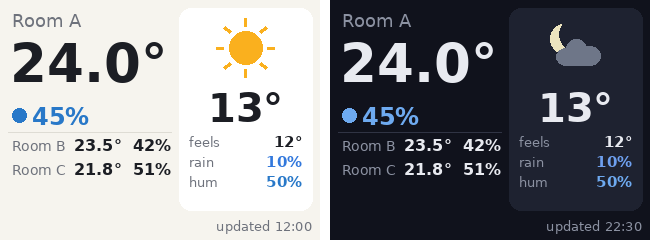
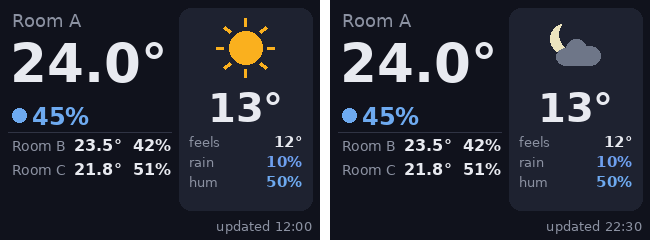
Dashboard: dark palette day and night
On the real CoreS3 the light daytime palette glared. The firmware tile now
always uses the dark palette, with is_day only choosing the sun or the
moon. The Phase 0 renderer matches by default (--light keeps the old
daytime look), and the docs and command description say so.

Refs #6

Claude-Session: https://claude.ai/code/session_013oQM9HPkBhiKc64RtBTpee

diff --git a/esp32/tools/dashboard_image.py b/esp32/tools/dashboard_image.py
@@ -37,7 +37,8 @@ Payload (every field optional except what you want shown):
 
 `condition` is one of: clear, partly_cloudy, cloudy, fog, drizzle, rain,
 snow, thunderstorm. The first indoor entry is drawn large; the rest as rows.
-`is_day: false` switches to a dark palette and a moon.
+The palette is dark (pass --light for a light one in the daytime);
+`is_day: false` draws a moon instead of the sun.
 
 Usage:
     dashboard_image.py payload.json out.jpg [--width 320] [--height 240]
@@ -79,6 +80,7 @@ DAY = {
     "accent": (226, 120, 40),
     "humid": (40, 120, 200),
     "sun": (250, 176, 30),
+    "moon": (236, 228, 190),
     "cloud": (180, 188, 200),
     "rain": (50, 120, 220),
     "line": (222, 220, 212),
@@ -90,7 +92,8 @@ NIGHT = {
     "muted": (140, 146, 162),
     "accent": (255, 160, 90),
     "humid": (110, 170, 240),
-    "sun": (236, 228, 190),  # the moon
+    "sun": (250, 176, 30),
+    "moon": (236, 228, 190),
     "cloud": (110, 118, 136),
     "rain": (110, 160, 240),
     "line": (48, 52, 68),
@@ -164,7 +167,7 @@ def draw_sun(d, cx, cy, r, c):
 
 
 def draw_moon(d, cx, cy, r, c):
-    d.ellipse([cx - r * 0.7, cy - r * 0.7, cx + r * 0.7, cy + r * 0.7], fill=c["sun"])
+    d.ellipse([cx - r * 0.7, cy - r * 0.7, cx + r * 0.7, cy + r * 0.7], fill=c["moon"])
     o = r * 0.38
     d.ellipse([cx - r * 0.7 + o, cy - r * 0.7 - o * 0.5,
                cx + r * 0.7 + o, cy + r * 0.7 - o * 0.5], fill=c["panel"])
@@ -231,11 +234,12 @@ def draw_weather_icon(d, cx, cy, r, condition, is_day, c):
 # ---- Layout ------------------------------------------------------------------
 
 
-def render(payload, width, height, fonts):
+def render(payload, width, height, fonts, light=False):
     outdoor = payload.get("outdoor") or {}
     indoor = payload.get("indoor") or []
     is_day = outdoor.get("is_day", True)
-    c = DAY if is_day else NIGHT
+    # Dark by default, as the firmware's dashboard: is_day only picks sun or moon.
+    c = DAY if light and is_day else NIGHT
 
     # Lay out on a 320x240 grid and scale everything else from it.
     s = min(width / 320, height / 240)
@@ -321,6 +325,8 @@ def main():
     parser.add_argument("--height", type=int, default=240)
     parser.add_argument("--font", help="TrueType/OpenType font for text")
     parser.add_argument("--bold-font", help="font for numbers (defaults to a bold one)")
+    parser.add_argument("--light", action="store_true",
+                        help="light palette in the daytime (default: always dark)")
     args = parser.parse_args()
 
     if args.payload == "-":
@@ -330,7 +336,7 @@ def main():
         with open(args.payload, encoding="utf-8") as f:
             payload = json.load(f)
 
-    img = render(payload, args.width, args.height, Fonts(args.font, args.bold_font))
+    img = render(payload, args.width, args.height, Fonts(args.font, args.bold_font), args.light)
     if args.out.lower().endswith((".jpg", ".jpeg")):
         img.save(args.out, "JPEG", quality=90, progressive=False)
     else:

diff --git a/esp32/components/muse/muse_dashboard.c b/esp32/components/muse/muse_dashboard.c
@@ -54,16 +54,14 @@ LV_FONT_DECLARE(muse_font_cjk_16)
 #endif
 
 typedef struct {
-    uint32_t bg, panel, text, muted, accent, humid, sun, cloud, rain, line;
+    uint32_t bg, panel, text, muted, accent, humid, sun, moon, cloud, rain, line;
 } palette_t;
 
-static const palette_t DAY = {
-    0xf6f4ee, 0xffffff, 0x1c1e24, 0x6e727c, 0xe27828,
-    0x2878c8, 0xfab01e, 0xb4bcc8, 0x3278dc, 0xdedcd4,
-};
-static const palette_t NIGHT = {
+/* Dark day and night: a light screen glares in a room. is_day only picks
+ * the sun or the moon. */
+static const palette_t DARK = {
     0x10121c, 0x1e2230, 0xe8eaf0, 0x8c92a2, 0xffa05a,
-    0x6eaaf0, 0xece4be, 0x6e7688, 0x6ea0f0, 0x303444,
+    0x6eaaf0, 0xfab01e, 0xece4be, 0x6e7688, 0x6ea0f0, 0x303444,
 };
 
 /* Shared with any task: the latest data and when it came. */
@@ -249,7 +247,7 @@ static void sun(lv_obj_t *p, float cx, float cy, float r, const palette_t *c)
 
 static void moon(lv_obj_t *p, float cx, float cy, float r, const palette_t *c)
 {
-    blob(p, cx, cy, r * 0.7f, c->sun);
+    blob(p, cx, cy, r * 0.7f, c->moon);
     blob(p, cx + r * 0.38f, cy - r * 0.19f, r * 0.7f, c->panel);
 }
 
@@ -374,8 +372,8 @@ void muse_dashboard_build(lv_obj_t *tile, int w, int h)
 
     s_footer = text(tile, &lv_font_montserrat_14, pad, h - S(22), w - 2 * pad, LV_TEXT_ALIGN_RIGHT);
     lv_label_set_text(s_footer, "waiting for data");
-    lv_obj_set_style_bg_color(tile, lv_color_hex(NIGHT.bg), 0);
-    lv_obj_set_style_text_color(s_footer, lv_color_hex(NIGHT.muted), 0);
+    lv_obj_set_style_bg_color(tile, lv_color_hex(DARK.bg), 0);
+    lv_obj_set_style_text_color(s_footer, lv_color_hex(DARK.muted), 0);
     lv_obj_add_flag(s_panel, LV_OBJ_FLAG_HIDDEN);
     lv_obj_add_flag(s_main_humid_dot, LV_OBJ_FLAG_HIDDEN);
     lv_obj_add_flag(s_rule, LV_OBJ_FLAG_HIDDEN);
@@ -389,7 +387,7 @@ static void color(lv_obj_t *o, uint32_t c)
 
 static void render(const muse_dashboard_data_t *d, bool stale)
 {
-    const palette_t *c = d->outdoor && !d->is_day ? &NIGHT : &DAY;
+    const palette_t *c = &DARK;
     char buf[48], pct[12];
 
     lv_obj_set_style_bg_color(s_tile, lv_color_hex(c->bg), 0);

diff --git a/esp32/main/dashboard_command.c b/esp32/main/dashboard_command.c
@@ -203,7 +203,7 @@ void dashboard_command_describe(cJSON *commands) {
         "shown large), \"outdoor\": {\"temperature_c\", \"feels_like_c\", "
         "\"humidity_pct\", \"precipitation_probability_pct\", \"condition\": "
         "clear|partly_cloudy|cloudy|fog|drizzle|rain|snow|thunderstorm, "
-        "\"is_day\": false for a night palette and a moon}. Every field is "
+        "\"is_day\": false for a moon instead of the sun}. Every field is "
         "optional; give indoor or outdoor.");
     cJSON *required = cJSON_AddObjectToObject(command, "required");
     cJSON *payload = cJSON_AddObjectToObject(required, "payload");

diff --git a/m5stack-cores3/DASHBOARD.md b/m5stack-cores3/DASHBOARD.md
@@ -15,7 +15,7 @@ Issue #4 / #5 の Phase 0。Muse 側でダッシュボード画像（320x240 JPE
 
 ペイロードの形は Issue #4 の案のまま。`condition` は
 `clear / partly_cloudy / cloudy / fog / drizzle / rain / snow / thunderstorm`。
-`is_day: false` で暗い配色と月のアイコンになる。`indoor` の先頭が大きく、残りは行で並ぶ。
+配色は昼夜とも暗い色（明るい画面は部屋で眩しいため。`--light` で昼だけ明るい配色）。`is_day: false` で太陽が月になる。`indoor` の先頭が大きく、残りは行で並ぶ。
 
 ラベルに日本語を使うときは CJK フォントが要る（`--font /path/to/NotoSansCJK-Regular.ttc`、
 または `fonts-noto-cjk` を入れると自動で拾う）。無ければ英数字のラベルにする。
